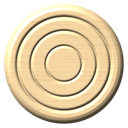
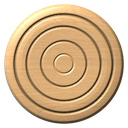
«Аревахач» как настоящие нарды: литые бронзовые петли, точёные шашки из шпона
- петли: фигурные пластины с волнистым краем, литой узор натёрт до блеска, фон в патине, винты, ось с колпачками
- шашки бук и орех: фото шпона под морилкой, концентрические бороздки, лак

Claude-Session: https://claude.ai/code/session_013vq6NREHT7txoK1nXmxN83

diff --git a/index.html b/index.html
@@ -327,7 +327,7 @@ svg#board{position:absolute;inset:0;width:100%;height:100%;display:block}
 (()=>{
 'use strict';
 const $=id=>document.getElementById(id);
-const APP_VERSION='18';   // совпадает с VERSION в sw.js; добавляется к адресам картинок, чтобы новые доски не брались из старого кэша
+const APP_VERSION='19';   // совпадает с VERSION в sw.js; добавляется к адресам картинок, чтобы новые доски не брались из старого кэша
 const NS='http://www.w3.org/2000/svg';
 const f2=v=>(+v).toFixed(1);
 

diff --git a/sw.js b/sw.js
@@ -1,5 +1,5 @@
 // Офлайн-кэш: страница, доски, звуки и шрифты кэшируются при установке.
-const V = '18';                 // = APP_VERSION в index.html
+const V = '19';                 // = APP_VERSION в index.html
 const VERSION = 'nardy-v' + V;
 const SHELL = [
   './',

diff --git a/tools/render_real.py b/tools/render_real.py
@@ -77,31 +77,52 @@ def rope_ring(cx, cy, r0, r1, n=44):
 
 
 def hinge(alb, h, metal, x, y):
-    """Узорная латунная петля: две фигурные пластины с завитками, ось посередине, винты."""
-    brass = np.array((.52, .40, .22))                         # старая бронза
-    plate = np.zeros((H, W))
+    """Литая бронзовая петля как на настоящих нардах: две фигурные пластины с волнистым краем,
+    литой рельеф (завитки, листья, розетка), винты со шлицем, ось-трубка с колпачками.
+    Выпуклое натёрто до блеска, в углублениях тёмная патина."""
+    yy, xx = np.mgrid[0:H, 0:W] / S
+    plate = np.zeros((H, W)); rel = np.zeros((H, W))
     for s in (-1, 1):
-        cy = y + s * 22
-        plate = np.maximum(plate, oval_mask(x, cy, 26, 20))
-        plate = np.maximum(plate, oval_mask(x - 15, cy + s * 4, 12, 16))
-        plate = np.maximum(plate, oval_mask(x + 15, cy + s * 4, 12, 16))
-    knuckle = rrect(x - 27, y - 3.5, x + 27, y + 3.5, 3.5)
-    m = np.maximum(plate, knuckle)
-    alb = put(alb, m, np.ones((H, W, 3)) * brass); metal = np.maximum(metal, m)
-    # рельеф: завитки и розетки, тёмная патина в углублениях
-    deco = lines([spiral(x + sx, y + sy, 6, 1.4, a, 1 if sx > 0 else -1) for sx in (-12, 12) for sy, a in ((-20, 0), (22, math.pi))], 1.2) * plate
-    ros = np.zeros((H, W))
-    for sy in (-24, 24):
-        for k in range(6):
-            a = k * math.pi / 3
-            ros = np.maximum(ros, oval_mask(x + 4 * math.cos(a), y + sy + 4 * math.sin(a), 2.2, 2.2))
-    screws = np.zeros((H, W))
-    for sx in (-14, 14):
-        for sy in (-26, 26): screws = np.maximum(screws, circle(x + sx, y + sy, 3.2))
-    rel = plate * 3 + knuckle * 4 + deco * 1.2 + ros * 1.0 + screws * 1.3 - ndi.gaussian_filter(screws, 1) * 0
-    pat = np.clip(ndi.gaussian_filter(rel, 2) - rel, 0, 2) * m
-    alb = alb * (1 - np.clip(pat * 1.6, 0, 1)[..., None] * .75)
-    h = h * (1 - m) + m * (25 + rel * 1.3)                    # петля лежит поверх стыка, а не проваливается в него
+        cy = y + s * 21
+        u, v = (xx - x) / 27, (yy - cy) / 19
+        r = np.hypot(u, v); a = np.arctan2(v, u)
+        edge = 1 + .07 * np.cos(a * 10) + .12 * np.cos(a * 2) ** 2          # фигурный волнистый край
+        pm = np.clip((edge - r) * 30, 0, 1) * (s * (yy - y) > 2.5)
+        plate = np.maximum(plate, pm)
+        # рельеф: бортик по краю, розетка в центре, по бокам завитки с листьями
+        border = np.exp(-((edge - r - .07) / .035) ** 2) * pm
+        ros = np.zeros((H, W))
+        for k in range(8):
+            ang = k * math.pi / 4
+            ros = np.maximum(ros, np.clip(1 - np.hypot((xx - x - 3.6 * math.cos(ang)) / 2.2, (yy - cy - 3.6 * math.sin(ang)) / 2.2), 0, 1))
+        ros = np.maximum(ros, np.clip(1 - np.hypot(xx - x, yy - cy) / 1.8, 0, 1))
+        scroll = np.zeros((H, W))
+        for sx in (-1, 1):
+            sp = spiral(x + sx * 14, cy + s * 2, 6.5, 1.5, (0 if sx > 0 else math.pi) + s * .6, -sx * s)
+            scroll = np.maximum(scroll, lines([sp], 1.6, aa=.5))
+            leaf = [(x + sx * (5 + 7 * t), cy - s * (6 + 3 * math.sin(math.pi * t)) ) for t in np.linspace(0, 1, 10)]
+            scroll = np.maximum(scroll, lines([leaf], 1.3, aa=.5))
+        screws = np.zeros((H, W))
+        for sx in (-9, 9):
+            sy = cy + s * 11
+            sc = circle(x + sx, sy, 2.6)
+            slot = lines([[(x + sx - 1.9, sy - 1.9), (x + sx + 1.9, sy + 1.9)], [(x + sx - 1.9, sy + 1.9), (x + sx + 1.9, sy - 1.9)]], .55, aa=.3)
+            screws = np.maximum(screws, sc * (1 - slot * .8))
+        rel += pm * (1.2 + border * 1.4 + ros * 1.6 + scroll * 1.4 + screws * 1.8)
+    knuckle = np.clip(1 - np.abs(yy - y) / 3.6, 0, 1) * (np.abs(xx - x) < 29)
+    seg = (np.abs(((xx - x) / 10.5) % 1 - .5) < .03) * knuckle
+    caps = (np.abs(np.abs(xx - x) - 30) < 1.6) * (np.abs(yy - y) < 2.6)
+    m = np.clip(np.maximum.reduce([plate, (knuckle > 0).astype(float), caps.astype(float)]), 0, 1)
+    rel = rel + np.sqrt(knuckle) * 4.2 - seg * 1.2 + caps * 3.5
+    rel = ndi.gaussian_filter(rel, .5)
+    # фон пластины в тёмной патине, литой узор и края натёрты до блеска
+    orn = np.clip((rel - 1.2 * plate) / 1.6, 0, 1)
+    dark, bright = np.array((.30, .22, .11)), np.array((.86, .70, .40))
+    col = dark[None, None] * (1 - orn[..., None]) + bright[None, None] * orn[..., None]
+    col = np.where((knuckle > 0)[..., None] | caps[..., None], bright * .9, col)
+    col = col * (.82 + .3 * fbm(H, W, 40, 40, 9, 2))[..., None]
+    alb = put(alb, m, col); metal = np.maximum(metal, m)
+    h = h * (1 - m) + m * (25 + rel * 1.1)
     return alb, h, metal
 
 
@@ -196,5 +217,41 @@ def board_arevakhach():
     save('ararat', rgb, body)
 
 
+
+def checker_real(name, texname, color, k):
+    """Точёная шашка: фото шпона, тонированное морилкой, концентрические бороздки, лак."""
+    N = 4 * 64; R = N * 30 / 64
+    y, x = np.mgrid[0:N, 0:N] - (N - 1) / 2
+    r = np.hypot(x, y) / R
+    inside = np.clip((1 - r) * R / 1.2, 0, 1)
+    im = np.asarray(Image.open(os.path.join(TEX, texname + '.jpg')).convert('RGB').resize((N * 2, N * 2)), float) / 255
+    o = {'beech': 150, 'walnut': 230}.get(name, 0)   # разные места шпона — у шашек разный рисунок
+    tex = im[o // 2:o // 2 + N, o:o + N]
+    alb = stain(tex, color, k)
+    dome = np.sqrt(np.clip(1 - r ** 2, 0, 1)) * R * .10
+    bevel = np.clip((1 - r) / .1, 0, 1) ** .5 * R * .12
+    h = np.minimum(dome + R * .07, bevel + R * .02)
+    def groove(rad, depth, wdt): return -np.exp(-((r - rad) / wdt) ** 2) * depth * R
+    h = h + groove(.82, .03, .018) + groove(.62, .025, .015) + groove(.38, .02, .013) + groove(.16, .015, .012)
+    # в бороздках лак темнее
+    g = np.exp(-((r - .82) / .02) ** 2) + np.exp(-((r - .62) / .017) ** 2) + np.exp(-((r - .38) / .015) ** 2)
+    alb = alb * (1 - np.clip(g, 0, 1)[..., None] * .35)
+    LIGHT = np.array([-.42, -.62, .66]); LIGHT /= np.linalg.norm(LIGHT)
+    HALF = LIGHT + np.array([0, 0, 1.0]); HALF /= np.linalg.norm(HALF)
+    gy, gx = np.gradient(h)
+    n = np.dstack([-gx, -gy, np.ones_like(h)]); n /= np.linalg.norm(n, axis=2, keepdims=True)
+    diff = np.clip((n @ LIGHT) / LIGHT[2], 0, 1.6)
+    spec = np.clip(n @ HALF, 0, 1) ** 50
+    rgb = np.clip(alb * (.32 + .68 * diff[..., None]) + spec[..., None] * .5, 0, 1)
+    out = Image.fromarray((rgb * 255).astype(np.uint8), 'RGB')
+    out.putalpha(Image.fromarray((inside * 255).astype(np.uint8), 'L'))
+    out.resize((128, 128), Image.LANCZOS).save(os.path.join(OUT, f'ck-{name}.png'), optimize=True)
+    print('saved ck', name)
+
+
 if __name__ == '__main__':
-    board_arevakhach()
+    which = sys.argv[1:] or ['arevakhach', 'checkers']
+    if 'arevakhach' in which: board_arevakhach()
+    if 'checkers' in which:
+        checker_real('beech', 'cherry_veneer', (.86, .68, .47), 1.2)
+        checker_real('walnut', 'cherry_veneer', (.30, .165, .075), 1.6)
